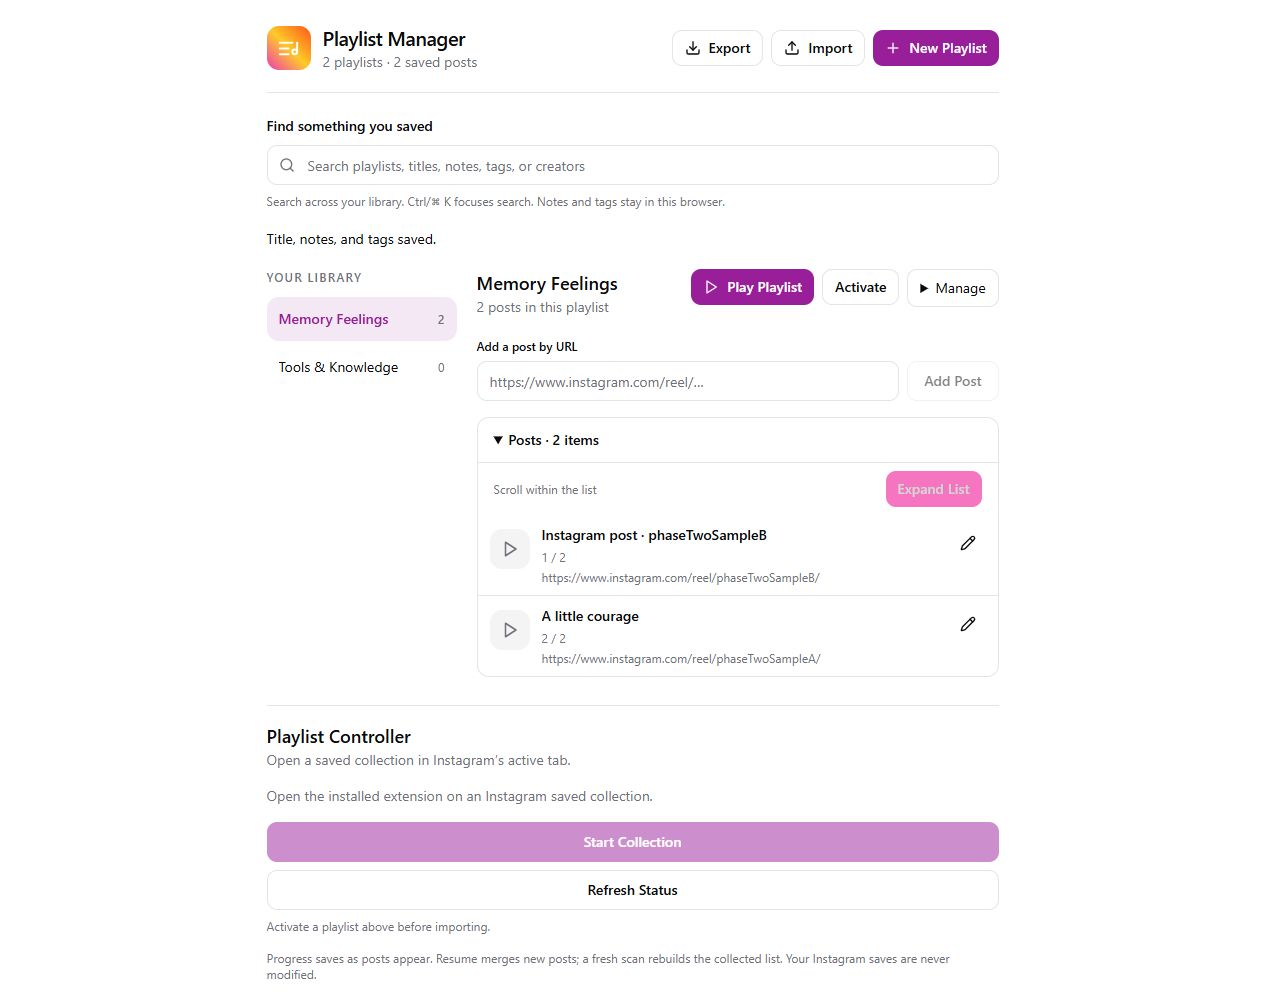
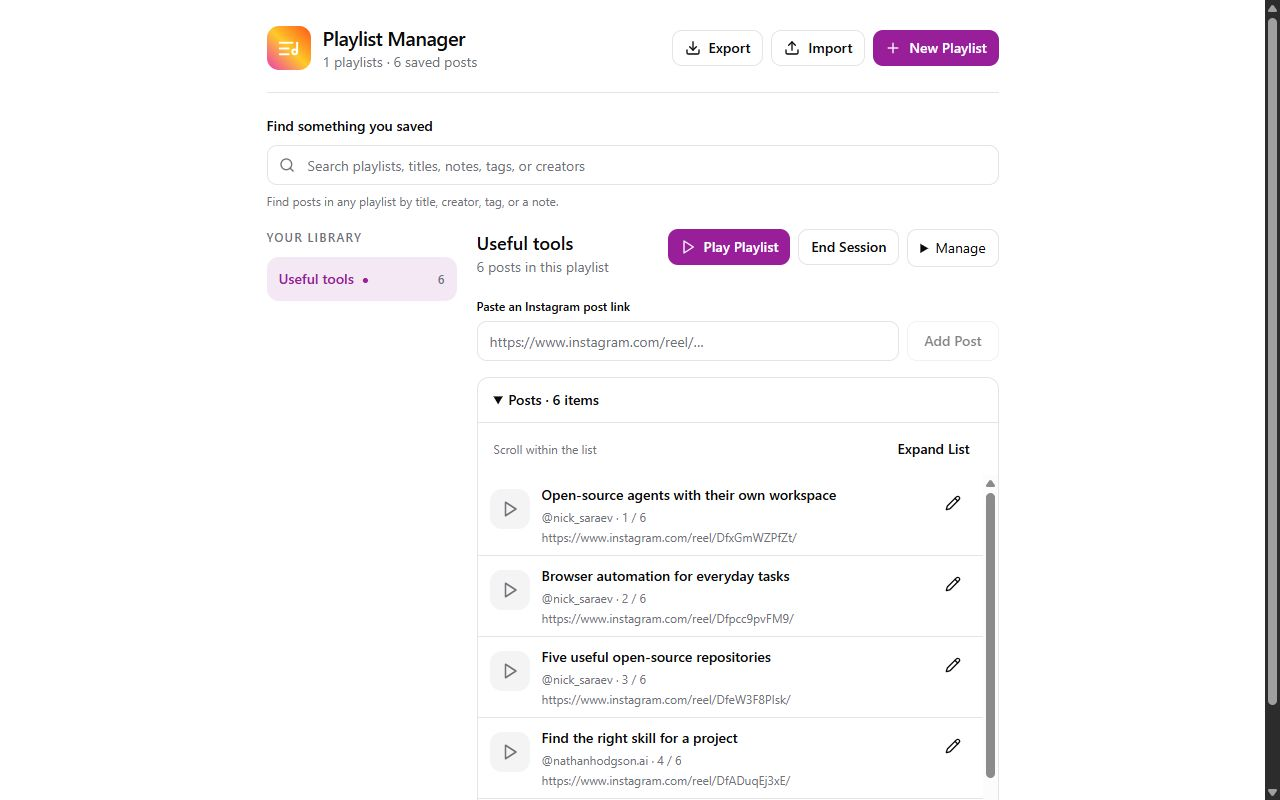
Prepare current store screenshots and promotional artwork

diff --git a/CHROMEWEBSTORE.md b/CHROMEWEBSTORE.md
@@ -1,6 +1,8 @@
 # Chrome Web Store publication
 
-Version 1.4.0. The extension is available from source; no store submission has been made.
+Version 1.4.1. The upload was accepted as a Chrome Web Store draft. Listing setup is in progress; it has not been submitted for review.
+
+**Draft item ID:** `kpphcabidgofolkipohnflpfimjnhefp`.
 
 ## Listing
 
@@ -46,13 +48,13 @@ The store data-use form must cover stored post references, website content, and 
 
 ## Assets and packaging
 
-The package contains 16, 48, and 128-pixel PNG icons, validated by the build. README screenshots use demonstration data and are not store listing screenshots.
+The package contains 16, 48, and 128-pixel PNG icons, validated by the build. Three current 1280 x 800 library screenshots and a 440 x 280 promotional tile are in `store-assets/`. They use only approved Useful tools post references with demonstration annotations; see `store-assets/README.md` for provenance.
 
 Run `npm ci`, `npm test`, `npm run lint`, and `npm run build`, then complete [the Instagram smoke test](TESTING.md). Zip only the contents of `dist`; `manifest.json` must be at the archive root. Do not include source files, tests, personal exports, or editor settings.
 
 ## Before submission
 
-- Capture current store screenshots at 1280 x 800 or 640 x 400, using content appropriate to share publicly.
+- Upload the reviewed current screenshots and promotional tile from `store-assets/`.
 - Supply a monitored publisher contact email and confirm the publisher display name.
 - Select visibility and distribution regions in the developer dashboard.
 - Verify the public privacy-policy URL and complete the data-use declarations.
@@ -63,6 +65,7 @@ Instagram layout changes, unavailable posts, and Chrome audible-autoplay restric
 
 ## Unpublished version history
 
+- **1.4.1:** Clearer search, editing, collection, and autoplay instructions; current store images.
 - **1.4.0:** Autoplay toggle with native looping, unmuted starts and reloads, reduced dependencies, documentation and permission cleanup.
 - **1.3.0:** Queue match details, compact editing, direct position changes, pause controls, and sound controls. Subsequent fix recognizes Instagram's plural reels routes.
 - **1.2.1:** Extension invalidation handling and icon/package validation.

diff --git a/store-assets/README.md b/store-assets/README.md
@@ -1,0 +1,10 @@
+# Store images
+
+- `01-library.jpg`: current Playlist Manager interface, 1280 x 800.
+- `02-search.jpg`: title and tag match details, 1280 x 800.
+- `03-edit.jpg`: personal titles, notes, tags, and queue position, 1280 x 800.
+- `promo-440x280.jpg`: promotional tile, 440 x 280. Editable vector source is included.
+
+Screenshots use the real PlaylistManager component in an isolated local preview. The six post references and creators come only from the user-approved Useful tools collection. Personal titles, notes, and tags are demonstration annotations. No other saved collections, messages, login details, or private videos are shown. These images demonstrate library features, not a recorded Instagram playback session.
+
+Screenshots were captured from version 1.4.1. Do not include these files in the extension upload ZIP.
